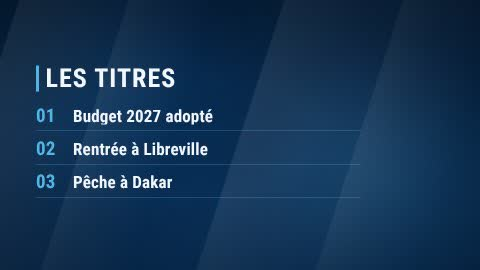
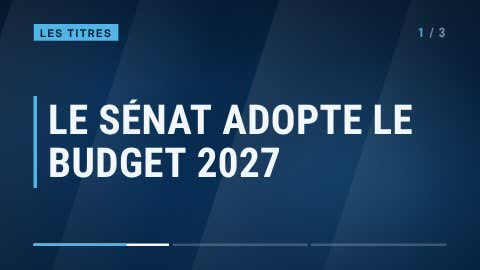
feat(habillage): « Les titres », un titre à la fois, plein écran
Le constat : les titres s'affichaient en liste numérotée, 01, 02, 03 — une
liste de courses. À l'antenne, c'est le moment le plus tendu du journal :
chaque information prend tout l'écran, seule, puis cède la place.

Chaque titre a maintenant sa scène :
- ses mots montent un à un derrière un cache, en capitales, à un corps qui
  s'adapte à sa longueur (132 à 196 px) ;
- un trait d'accent se dresse à sa gauche ; en bas, une barre segmentée dit
  où l'on en est et se remplit pendant qu'il est à l'écran ;
- au changement, le titre sort par le haut, un éclat traverse l'image et le
  décor avance d'un cran ;
- l'étiquette « LES TITRES » et le compteur (2 / 3) restent posés.

Le temps est partagé également entre les titres ; le dernier reste jusqu'à la
fin. On peut en saisir jusqu'à cinq (trois auparavant).

Claude-Session: https://claude.ai/code/session_01LdohYMYLdzn78whXWPs6qn

diff --git a/remotion/src/overlays/paquet.jsx b/remotion/src/overlays/paquet.jsx
@@ -566,7 +566,7 @@ export function Citation({ overlay, durationInFrames }) {
  * À l'ouverture, les pans arrivent vite et se posent ; ensuite ils dérivent à
  * peine. Le texte reste ce qui bouge le plus.
  */
-function FondAntenne({ p, frame, k, T, teinte, children }) {
+function FondAntenne({ p, frame, k, T, teinte, avance = 0, children }) {
   const t = frame / k;
   // L'élan de l'ouverture : les pans viennent de loin, puis dérivent.
   const elan = 1 - poser(t / 26);
@@ -594,7 +594,7 @@ function FondAntenne({ p, frame, k, T, teinte, children }) {
       {pans.map(([x, largeur, vitesse, opacite, sens], i) => (
         <div key={`p${i}`} style={{
           position: 'absolute', top: '-20%', height: '140%', width: `${largeur}%`,
-          left: `${(x + t * vitesse + elan * sens * 46).toFixed(3)}%`,
+          left: `${(x + t * vitesse + elan * sens * 46 - avance * (7 + i * 3)).toFixed(3)}%`,
           transform: 'skewX(-18deg)',
           background: `linear-gradient(90deg, ${T.papier}, transparent 85%)`,
           opacity: opacite * (1 - elan * 0.6),
@@ -733,38 +733,98 @@ export function DerniereMinute({ overlay, durationInFrames }) {
   );
 }
 
-/** Le rappel des titres : trois lignes numérotées qui s'installent l'une après l'autre. */
+/**
+ * Les titres.
+ *
+ * LE CONSTAT : les titres s'affichaient en liste numérotée, 01, 02, 03 —
+ * une liste de courses. À l'antenne, les titres sont le moment le plus tendu
+ * du journal : chaque information prend TOUT l'écran, seule, en très grand,
+ * puis cède la place à la suivante.
+ *
+ * Ici chaque titre a sa scène :
+ *   - ses mots montent un à un derrière un cache, en capitales ;
+ *   - un trait d'accent se dresse à sa gauche, une barre segmentée en bas dit
+ *     où l'on en est et se remplit pendant qu'il est à l'écran ;
+ *   - au changement, le titre sort par le haut, un éclat traverse l'image, et
+ *     le décor avance d'un cran : on sent qu'on passe à autre chose.
+ * L'étiquette « LES TITRES » et le compteur restent posés, discrets.
+ *
+ * Le temps est partagé également entre les titres ; le dernier reste jusqu'à
+ * la fin.
+ */
 export function RappelTitres({ overlay, durationInFrames }) {
-  const { frame, k, p } = useCalques(durationInFrames);
+  const { frame, k, p, depart } = useCalques(durationInFrames);
   const T = teintes(overlay);
   const entete = champ(overlay, 'titre') || 'LES TITRES';
-  const titres = ['titre1', 'titre2', 'titre3', 'titre4'].map((c) => champ(overlay, c)).filter(Boolean);
+  const titres = ['titre1', 'titre2', 'titre3', 'titre4', 'titre5'].map((c) => champ(overlay, c)).filter(Boolean);
+  if (!titres.length) return null;
+
+  const t = frame / k;
+  const OUVERTURE = 12; // l'étiquette et le décor s'installent d'abord
+  const fin = Number.isFinite(durationInFrames) && durationInFrames > 0 ? durationInFrames / k : OUVERTURE + titres.length * 78;
+  const scene = Math.max(36, (fin - OUVERTURE - 8) / titres.length);
+  const rang = Math.max(0, Math.min(titres.length - 1, Math.floor((t - OUVERTURE) / scene)));
+  const local = t - OUVERTURE - rang * scene; // images écoulées dans la scène en cours
+  const dernier = rang === titres.length - 1;
+  // Chaque titre sort dans ses huit dernières images, sauf le dernier, qui
+  // reste jusqu'à la sortie d'ensemble.
+  const sortie = dernier ? 0 : quitter((local - (scene - 8)) / 8);
+  const entree = (delai, duree = 13) => poser((local - delai) / duree) * (1 - depart);
+  // Le décor avance d'un cran à chaque titre, d'un geste qui se pose.
+  const avance = rang + (rang > 0 || t > OUVERTURE ? poser(local / 16) : 0) - 1;
+  const eclat = local / 11;
+  const mots = titres[rang].split(/\s+/);
+  // Un titre long descend d'un corps : il doit tenir en trois lignes au plus.
+  const corps = Math.round((titres[rang].length > 46 ? 132 : titres[rang].length > 28 ? 164 : 196) * ((Number(overlay.fontSize) || 100) / 100));
+
   return (
-    <FondAntenne p={p(0, 14)} frame={frame} k={k} T={T}>
-      <div style={{ position: 'absolute', inset: 0, padding: `${MARGE}px ${MARGE * 1.5}px`, display: 'flex', flexDirection: 'column', justifyContent: 'center', fontFamily: POLICE_HABILLAGE, ...varPolice(overlay) }}>
-        <div style={{ display: 'flex', alignItems: 'center', gap: 26, marginBottom: 54 }}>
-          <Filet vertical p={p(4, 10)} epaisseur={12} longueur={104} couleur={T.accent} />
-          <Monte p={p(6, 16)}>
-            <TexteJT role="titrage" delai={6} style={{ ...titrage, fontSize: taille(overlay, 104), letterSpacing: '0.04em', color: T.texte }}>{entete}</TexteJT>
-          </Monte>
+    <FondAntenne p={p(0, 14)} frame={frame} k={k} T={T} avance={Math.max(0, avance)}>
+      <div style={{ position: 'absolute', inset: 0, padding: `${MARGE}px ${MARGE * 1.4}px`, display: 'flex', flexDirection: 'column', fontFamily: POLICE_HABILLAGE, ...varPolice(overlay) }}>
+        {/* L'étiquette et le compteur : posés une fois, ils ne bougent plus. */}
+        <div style={{ display: 'flex', alignItems: 'center', justifyContent: 'space-between' }}>
+          <Volet p={p(2, 12)} style={{ background: T.accent, padding: '13px 26px 12px' }}>
+            <Monte p={p(5, 12)}>
+              <div style={{ ...mention, fontSize: taille(overlay, 42), letterSpacing: '0.14em', color: T.profond }}>{entete}</div>
+            </Monte>
+          </Volet>
+          <div style={{ ...titrage, fontSize: taille(overlay, 52), color: T.texte, opacity: p(8, 14) * 0.9, fontVariantNumeric: 'tabular-nums', letterSpacing: '0.08em' }}>
+            <span style={{ color: T.accent }}>{rang + 1}</span><span style={{ opacity: 0.55 }}> / {titres.length}</span>
+          </div>
         </div>
-        {titres.map((titre, i) => {
-          const d = 14 + i * 8;
-          return (
-            <div key={i} style={{ marginBottom: 30, maxWidth: 1300 }}>
-              <div style={{ display: 'flex', alignItems: 'baseline', gap: 38 }}>
-                <Monte p={p(d, 14)}>
-                  <div style={{ ...titrage, fontSize: taille(overlay, 76), color: T.accent, fontVariantNumeric: 'tabular-nums', width: 110 }}>{String(i + 1).padStart(2, '0')}</div>
-                </Monte>
-                <Monte p={p(d + 2, 15)}>
-                  <TexteJT role="titrage" delai={d + 2} style={{ ...titrage, textTransform: 'none', fontSize: taille(overlay, 68), color: T.texte }}>{titre}</TexteJT>
-                </Monte>
+
+        {/* La scène du titre en cours. */}
+        <div key={rang} style={{ flex: 1, display: 'flex', alignItems: 'center', gap: 44 }}>
+          <Filet vertical p={entree(0, 10) * (1 - sortie)} epaisseur={14} longueur={Math.min(520, corps + mots.length * 34)} couleur={T.accent} origine="center" />
+          <div style={{ display: 'flex', flexWrap: 'wrap', alignContent: 'center', columnGap: Math.round(corps * 0.24), rowGap: 2, maxWidth: 1560 }}>
+            {mots.map((mot, i) => {
+              // Les mots montent un à un ; à la sortie, ils repartent ensemble par le haut.
+              const pose = entree(3 + i * 1.6);
+              return (
+                <span key={`${rang}-${i}`} style={{ display: 'inline-block', overflow: 'hidden', paddingBottom: 6 }}>
+                  <span style={{ ...titrage, display: 'inline-block', fontSize: corps, lineHeight: 1.0, color: T.texte, transform: `translateY(${((1 - pose) * 108 - sortie * 112).toFixed(2)}%)` }}>{mot}</span>
+                </span>
+              );
+            })}
+          </div>
+        </div>
+
+        {/* La barre segmentée : où l'on en est, et le temps qui reste à ce titre. */}
+        <div style={{ display: 'flex', gap: 14, opacity: p(8, 14) }}>
+          {titres.map((_, i) => {
+            const rempli = i < rang ? 1 : i === rang ? Math.min(1, local / (dernier ? scene : scene - 4)) : 0;
+            return (
+              <div key={i} style={{ flex: 1, height: 10, background: T.papier, opacity: i > rang ? 0.22 : 1, position: 'relative', overflow: 'hidden' }}>
+                <div style={{ position: 'absolute', inset: 0, background: i <= rang ? T.accent : 'transparent', transform: `scaleX(${rempli.toFixed(4)})`, transformOrigin: 'left' }} />
               </div>
-              <Filet p={p(d + 4, 22)} epaisseur={2} couleur={T.accent} style={{ marginTop: 22, opacity: 0.55 }} />
-            </div>
-          );
-        })}
+            );
+          })}
+        </div>
       </div>
+
+      {/* L'éclat qui traverse l'image à chaque changement de titre. */}
+      {t > OUVERTURE && eclat > 0 && eclat < 1 && (
+        <div style={{ position: 'absolute', top: '-20%', height: '140%', width: '22%', left: `${(-26 + eclat * 150).toFixed(2)}%`, transform: 'skewX(-18deg)', background: VOILES.reflet, opacity: 0.9 }} />
+      )}
     </FondAntenne>
   );
 }

diff --git a/frontend/tests/paquet-antenne.test.js b/frontend/tests/paquet-antenne.test.js
@@ -63,6 +63,17 @@ describe('le paquet d’antenne', () => {
     expect(defilant).toMatch(/frame \/ k/);
   });
 
+  // LE CONSTAT : les titres s'affichaient en liste numérotée, 01, 02, 03 —
+  // une liste de courses. Chaque titre a maintenant sa scène, seul à l'écran.
+  it('les titres passent un par un, et non en liste numérotée', () => {
+    const titres = source.slice(source.indexOf('export function RappelTitres'), source.indexOf('export function Fin'));
+    expect(titres).not.toMatch(/padStart\(2, '0'\)/);      // plus de « 01, 02, 03 »
+    expect(titres).toMatch(/const rang = /);                 // un seul titre en scène
+    expect(titres).toMatch(/titres\[rang\]/);
+    expect(titres).toMatch(/scaleX\(\$\{rempli/);            // la barre segmentée se remplit
+    expect(titres).toMatch(/'titre4', 'titre5'/);            // jusqu'à cinq titres
+  });
+
   it('les couleurs réglées par le monteur restent prises en compte', () => {
     expect(source).toMatch(/pickColors\(overlay\)/);
     expect(source).toMatch(/overlay\.posX/);

diff --git a/frontend/src/i18n/translations.js b/frontend/src/i18n/translations.js
@@ -1245,6 +1245,8 @@ export const translations = {
             titre1: { label: 'Titre 1', exemple: 'Crise au Sahel' },
             titre2: { label: 'Titre 2', exemple: 'Sommet économique' },
             titre3: { label: 'Titre 3', exemple: 'Élections' },
+            titre4: { label: 'Titre 4 (facultatif)', exemple: 'Sport' },
+            titre5: { label: 'Titre 5 (facultatif)', exemple: 'Culture' },
           },
         },
         fin_merci: {
@@ -2527,6 +2529,8 @@ export const translations = {
             titre1: { label: 'Headline 1', exemple: 'Crisis in the Sahel' },
             titre2: { label: 'Headline 2', exemple: 'Economic summit' },
             titre3: { label: 'Headline 3', exemple: 'Elections' },
+            titre4: { label: 'Headline 4 (optional)', exemple: 'Sport' },
+            titre5: { label: 'Headline 5 (optional)', exemple: 'Culture' },
           },
         },
         fin_merci: {

diff --git a/backend/src/data/overlayTemplates.js b/backend/src/data/overlayTemplates.js
@@ -525,7 +525,9 @@ export const OVERLAY_TEMPLATES = [
     fields: [
       { key: 'titre1' },
       { key: 'titre2' },
-      { key: 'titre3' }
+      { key: 'titre3' },
+      { key: 'titre4' },
+      { key: 'titre5' }
     ]
   },
   {

diff --git a/frontend/src/data/overlayTemplates.js b/frontend/src/data/overlayTemplates.js
@@ -126,7 +126,9 @@ export const OVERLAY_TEMPLATES = [
     fields: [
       { key: 'titre1' },
       { key: 'titre2' },
-      { key: 'titre3' }
+      { key: 'titre3' },
+      { key: 'titre4' },
+      { key: 'titre5' }
     ]
   },
   {
